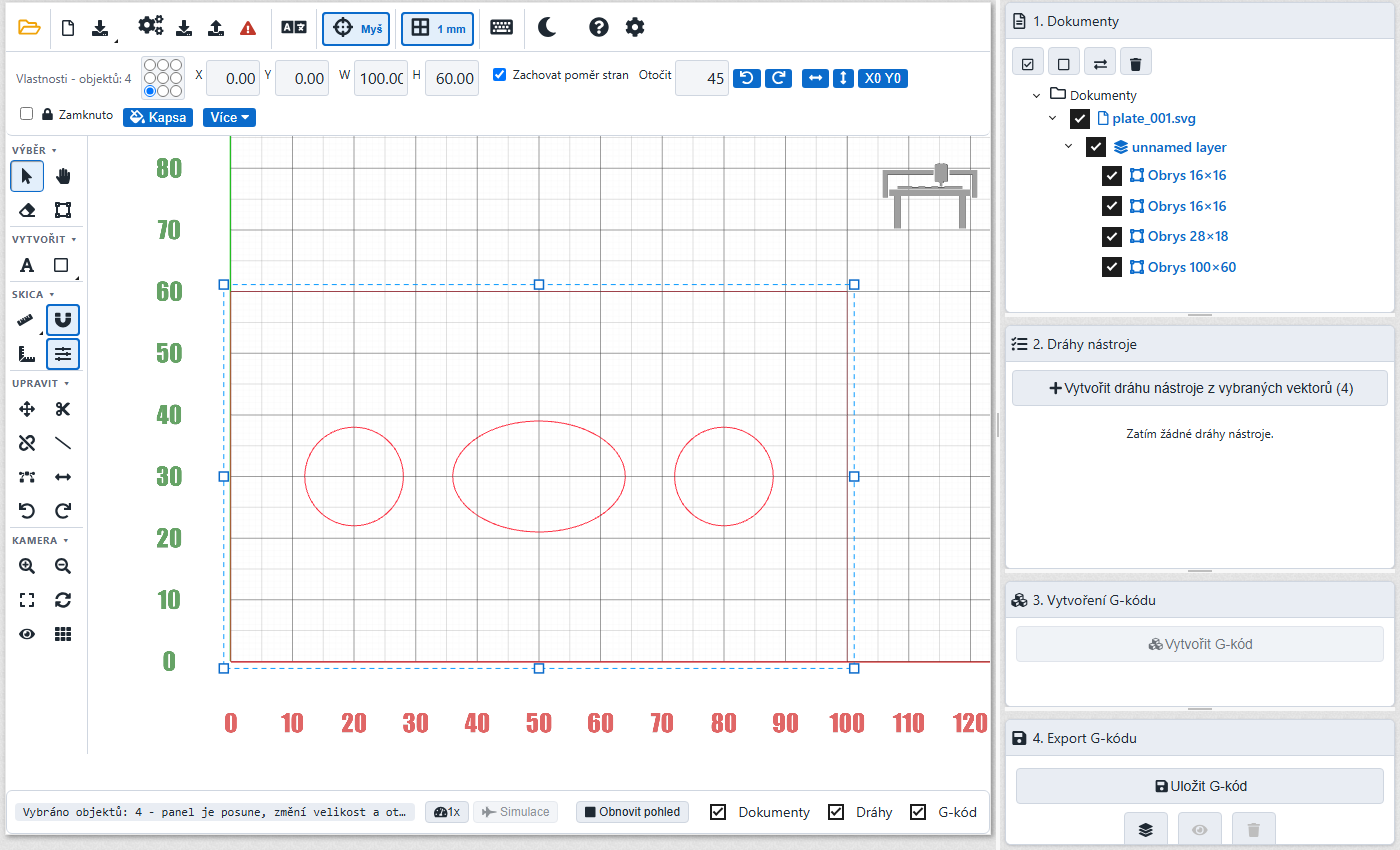
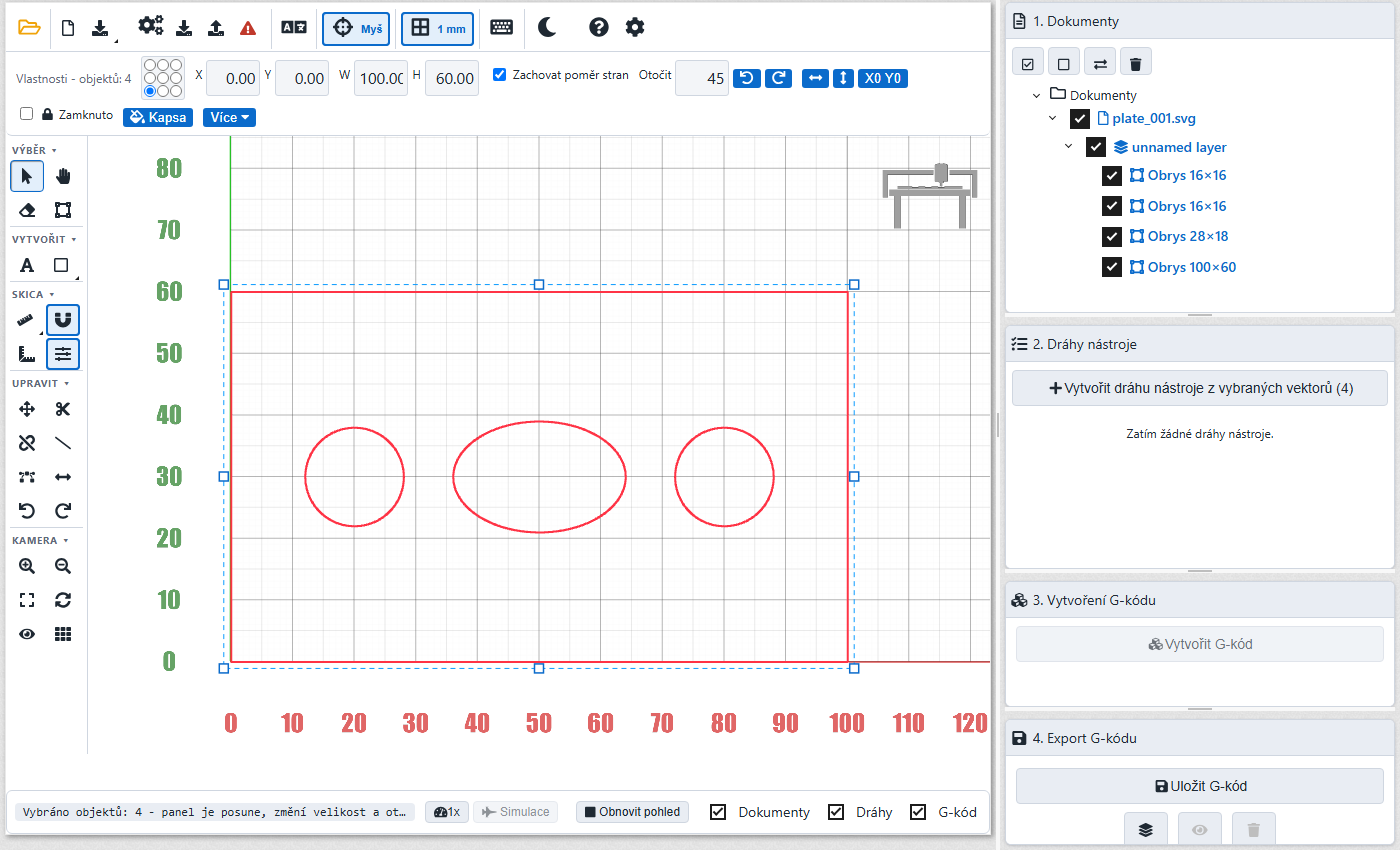
Swarfly 1.18.2: saturated blue, 2 px thick drawing lines, lighter grid

diff --git a/js/viewer.js b/js/viewer.js
@@ -155,9 +155,9 @@ function updateGridLevels() {
     layer.visible = strength > 0.01;
     layer.material.opacity = strength * baseOpacity;
   }
-  set(gridLayers.g1, lv.a1, Theme.GRID_STEP_10_OPACITY * 0.8);
-  set(gridLayers.g5, lv.a5, Theme.GRID_STEP_10_OPACITY * 1.6);
-  set(gridLayers.g10, lv.a10, Theme.GRID_STEP_10_OPACITY * (1 + 1.6 * lv.s10));      // light grey far away, dark when zoomed in
+  set(gridLayers.g1, lv.a1, Theme.GRID_STEP_10_OPACITY * 0.6);
+  set(gridLayers.g5, lv.a5, Theme.GRID_STEP_10_OPACITY * 1.1);
+  set(gridLayers.g10, lv.a10, Theme.GRID_STEP_10_OPACITY * (1 + 0.9 * lv.s10));      // light grey far away, dark when zoomed in
   if (gridLayers.g10) gridLayers.g10.material.color.setHex(lv.s10 > 0.5 ? Theme.GRID_STEP_100_COLOR : Theme.GRID_STEP_10_COLOR);
   set(gridLayers.g100, lv.a100, Theme.GRID_STEP_100_OPACITY * 2);
 }
@@ -513,7 +513,35 @@ function animate() {
     }, 60);
 
     renderer.render(scene, camera);
+    renderThickLines();
   }
+}
+
+// Swarfly 1.18.2: WebGL draws every line 1 pixel thin, so the drawing is drawn three more times, each shifted by one pixel (a 2 x 2 pixel line),
+// only the Documents and Hover groups, on top of the normal picture. Skipped for very big drawings (the extra passes cost time).
+var thickLinesLimit = 60000;   // vertices in the drawing; above it the lines stay thin
+function renderThickLines() {
+  try { if (localStorage.getItem("swarflyThickLines") === "0") return; } catch (e) {}
+  var docs = scene.getObjectByName("Documents");
+  if (!docs || !docs.visible) return;
+  var n = 0;
+  for (var i = 0; i < docs.children.length; i++) { var c = docs.children[i]; n += (c.children && c.children.length ? c.children.length * 50 : 50); }
+  if (n > thickLinesLimit) return;
+  var keep = [];
+  scene.children.forEach(function(ch) {
+    keep.push(ch.visible);
+    if (ch.name !== "Documents" && ch.name !== "Hover") ch.visible = false;
+  });
+  var w = renderer.domElement.width, h = renderer.domElement.height;
+  var before = renderer.autoClear;
+  renderer.autoClear = false;
+  [[1, 0], [0, 1], [1, 1]].forEach(function(o) {
+    camera.setViewOffset(w, h, -o[0], -o[1], w, h);
+    renderer.render(scene, camera);
+  });
+  camera.clearViewOffset();
+  renderer.autoClear = before;
+  scene.children.forEach(function(ch, i) { ch.visible = keep[i]; });
 }
 
 

diff --git a/js/theme.js b/js/theme.js
@@ -3,7 +3,7 @@ let ThemeData = {
     "light": {
       DESCRIPTION: 'Light Mode',
       ICON: 'sun',
-      CAM_DOC_DEFAULT_COLOR: 0x0d47c9,   // 1.18.2: drawing lines are blue, so they stand out from the grey grid
+      CAM_DOC_DEFAULT_COLOR: 0x0022ff,   // 1.18.2: drawing lines are blue, so they stand out from the grey grid
       SPRITE_OPACITY: 0.6,
       SKY_TOP_COLOR: 0x0077ff,
       SKY_BOTTOM_COLOR: 0xffffff,
@@ -49,7 +49,7 @@ let ThemeData = {
     "dark": {
       DESCRIPTION: 'Dark Mode',
       ICON: 'moon',
-      CAM_DOC_DEFAULT_COLOR: 0x6fb3ff,
+      CAM_DOC_DEFAULT_COLOR: 0x4aa0ff,
       SPRITE_OPACITY: 0.8,
       SKY_TOP_COLOR: 0x333333,
       SKY_BOTTOM_COLOR: 0x222222,

diff --git a/CHANGELOG.md b/CHANGELOG.md
@@ -7,7 +7,7 @@ Every release must have an entry here that matches the version in `package.json`
 ### Added
 - **Grid that follows the zoom**: far away you see the 10 mm lines (light); coming closer they turn darker, then 5 mm lines fade in (grey), and zoomed in a lot the faint 1 mm lines appear as well. A level shows when its lines are far enough apart on the screen, so the grid never becomes a grey wash.
 ### Changed
-- **Drawing lines are blue** (light blue in the dark theme) instead of black / white, so they stand apart from the grey grid. The line under the mouse is orange now (it was blue), a selected line stays red.
+- **Drawing lines are blue** (a saturated blue; light blue in the dark theme) instead of black / white, so they stand apart from the grey grid, and **2 pixels thick** (WebGL draws only 1 pixel lines, so the drawing is drawn three more times shifted by a pixel; very big drawings stay thin). Switch off: `localStorage.swarflyThickLines = "0"`. The grid lines are lighter. The line under the mouse is orange now (it was blue), a selected line stays red.
 ### Fixed
 - A drawing line that lay on a 10 mm grid line (e.g. the edge of a 30 x 20 rectangle) could not be seen: the grid sits a hair below the drawing plane now and the 10 mm lines are mid-grey instead of nearly black, so the drawing always wins.
 - No flash of the old ribbon layout on F5: the toolbar and the tool panel stay hidden until they are arranged.
